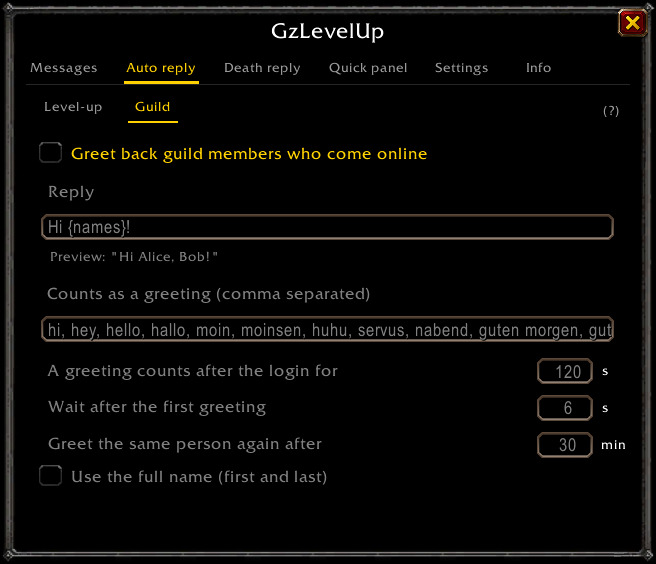
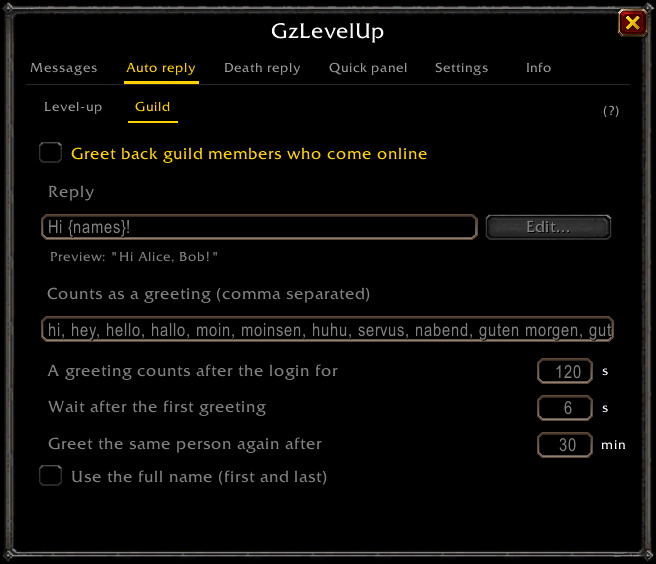
Retake the screenshots and add one of the message list editor

Changed region(s): [[0.7012, 0.3617, 0.9451, 0.4521]]

diff --git a/README.md b/README.md
@@ -103,9 +103,13 @@ The config window (<code>/gz</code>) is split across six tabs:
     </td>
   </tr>
   <tr>
-    <td align="center" valign="top" colspan="2">
+    <td align="center" valign="top" width="50%">
       <img src="media/example_settings_panel.jpg" width="380" alt="Settings tab"><br>
       <sub><b>Settings</b> — master switch, raid chat, minimap button, the settings profiles and the language</sub>
+    </td>
+    <td align="center" valign="top" width="50%">
+      <img src="media/example_message_list_editor.jpg" width="380" alt="Message list editor"><br>
+      <sub><b>Edit...</b> next to any message — several variants, one per line, sent at random or in order</sub>
     </td>
   </tr>
 </table>
